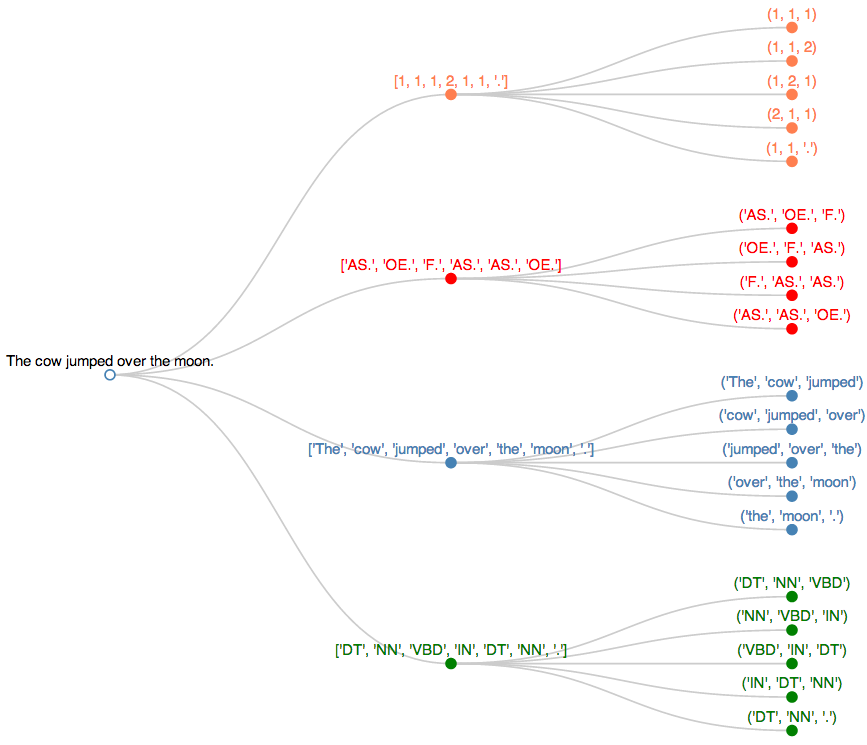
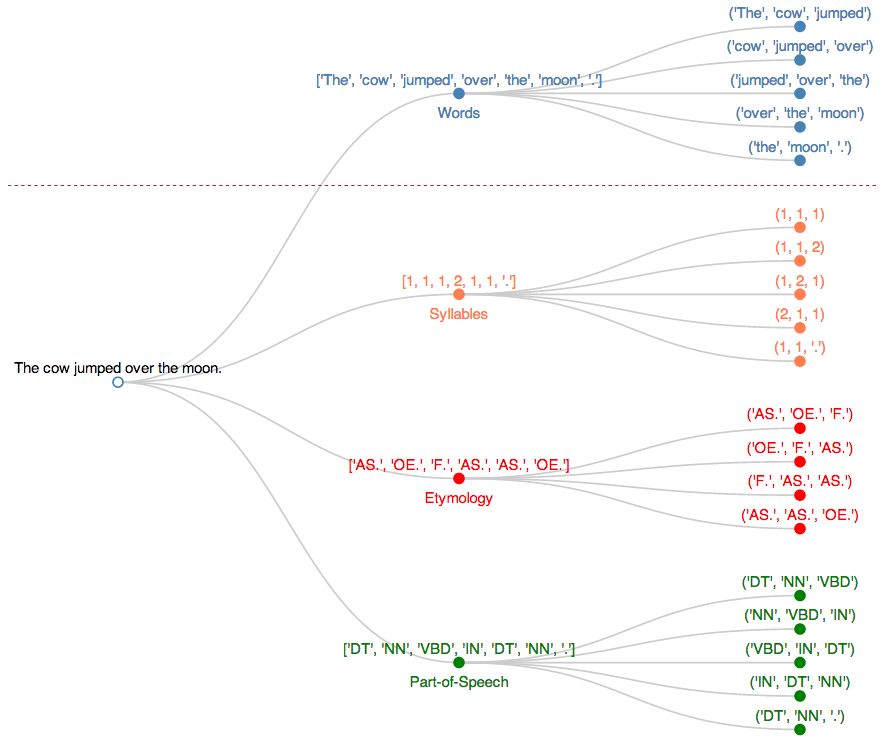
More feature extraction cleanup and visualization tweaks

diff --git a/visualization/examples/dendrogram_horizontal.html b/visualization/examples/dendrogram_horizontal.html
@@ -24,6 +24,7 @@
 <script>
 
 var colors = { "syllable": "coral", "pos": "green", "etymology": "red", "word": "steelblue" };
+var descriptions = { "syllable": "Syllables", "pos": "Part-of-Speech", "etymology": "Etymology", "word": "Words" };
 
 var width = 800,
     height = 700;
@@ -64,8 +65,27 @@ d3.json("output.json", function(error, root) {
 
   node.append("text")
       .attr("dy", -8)
-      .style("text-anchor", function(d) { return d.children ? "middle" : "middle"; })
+      .style("text-anchor", "middle")
       .text(function(d) { return d.body; });
+
+  node.filter(function(d) { return d.children })
+      .append("text")
+      .attr("dy", 22)
+      .style("text-anchor", "middle")
+      .text(function(d) { return descriptions[d.type]; });
+
+  var y = 175;
+  var lineData = [{'x': -100, 'y': y}, {'x': width + 100, 'y': y}];
+  var lineFunction = d3.svg.line()
+    .x(function(d) { return d.x; })
+    .y(function(d) { return d.y; })
+    .interpolate("linear");
+  console.log(lineData);
+  svg.append("path")
+    .style("stroke-dasharray", (3, 3))
+    .attr("d", lineFunction(lineData))
+    .attr("stroke", "firebrick")
+    .attr("stroke-width", 1);
 });
 
 d3.select(self.frameElement).style("height", height + "px");

diff --git a/features/extract.py b/features/extract.py
@@ -9,11 +9,21 @@ def find_all_matching_ngrams(text, ngram, ngram_extractor, PUNC=True):
     n = len(ngram)
     word_ngrams = analyzer.word_ngrams(text, n, PUNC=PUNC)
     target_ngrams = ngram_extractor(text, n)
+    print word_ngrams, target_ngrams
+    return list(zip(*filter(lambda x: x[1] == ngram, zip(word_ngrams, target_ngrams)))[0])
+
+
+def find_matches_for_pairs(pairs, ngram):
+    n = len(ngram)
+    split = zip(*pairs)
+    word_ngrams = analyzer.to_ngrams(split[0], n)
+    target_ngrams = analyzer.to_ngrams(split[1], n)
     return list(zip(*filter(lambda x: x[1] == ngram, zip(word_ngrams, target_ngrams)))[0])
 
 
 def find_pos_ngram(text, ngram):
-    return find_all_matching_ngrams(text, ngram, analyzer.pos_ngrams)
+    pairs = analyzer.tag_text(text)
+    return find_matches_for_pairs(pairs, ngram)
 
 
 def find_syllable_ngram(text, ngram):
@@ -21,7 +31,8 @@ def find_syllable_ngram(text, ngram):
 
 
 def find_etymology_ngram(text, ngram):
-    return find_all_matching_ngrams(text, ngram, analyzer.etymology_ngrams, PUNC=False)
+    pairs = analyzer.etymology_with_words(text)
+    return find_matches_for_pairs(pairs, ngram)
 
 
 def sentence_ngrams(text, n):

diff --git a/features/etymology_dict.py b/features/etymology_dict.py
@@ -21,14 +21,18 @@ class EtymologyDict(object):
             self.load()
 
         try:
+            print "Using self"
             return self.d[s.lower()]
         except KeyError:
             try:
+                print "Using stemmer: " + self.stemmer.stem(s).lower()
                 return self.d[self.stemmer.stem(s).lower()]
             except KeyError:
                 try:
+                    print "Using lemmatizer: " + self.lemmatizer.lemmatize(s).lower()
                     return self.d[self.lemmatizer.lemmatize(s).lower()]
                 except KeyError:
                     (score, match) = max((ratio(s, t), t) for t in self.d)
                     self.d[s] = self.d[match]
+                    print "Using Levenshtein: " + match
                     return self.d[match]

diff --git a/features/analyzer.py b/features/analyzer.py
@@ -236,6 +236,13 @@ def stress_counts_by_syllable(text, SECONDARY=True):
 #
 
 
+def etymology_with_words(text):
+    exclude = set(punctuation)
+    text = ''.join(ch for ch in text if ch not in exclude)
+    text = word_tokenize(text)
+    return map(lambda w: (w, e.lookup(w)), text)
+
+
 def etymology_representation(text):
     exclude = set(punctuation)
     text = ''.join(ch for ch in text if ch not in exclude)
